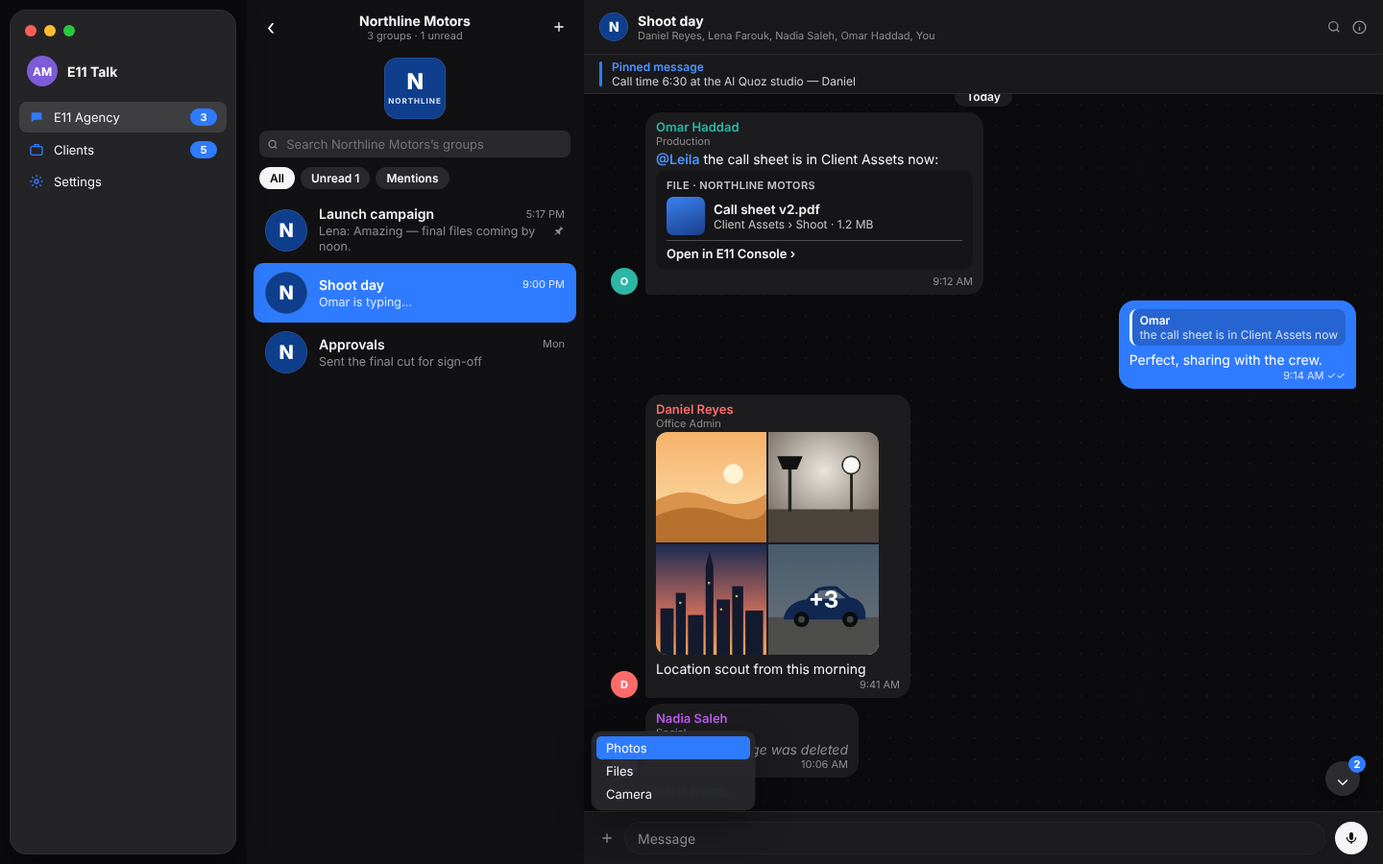
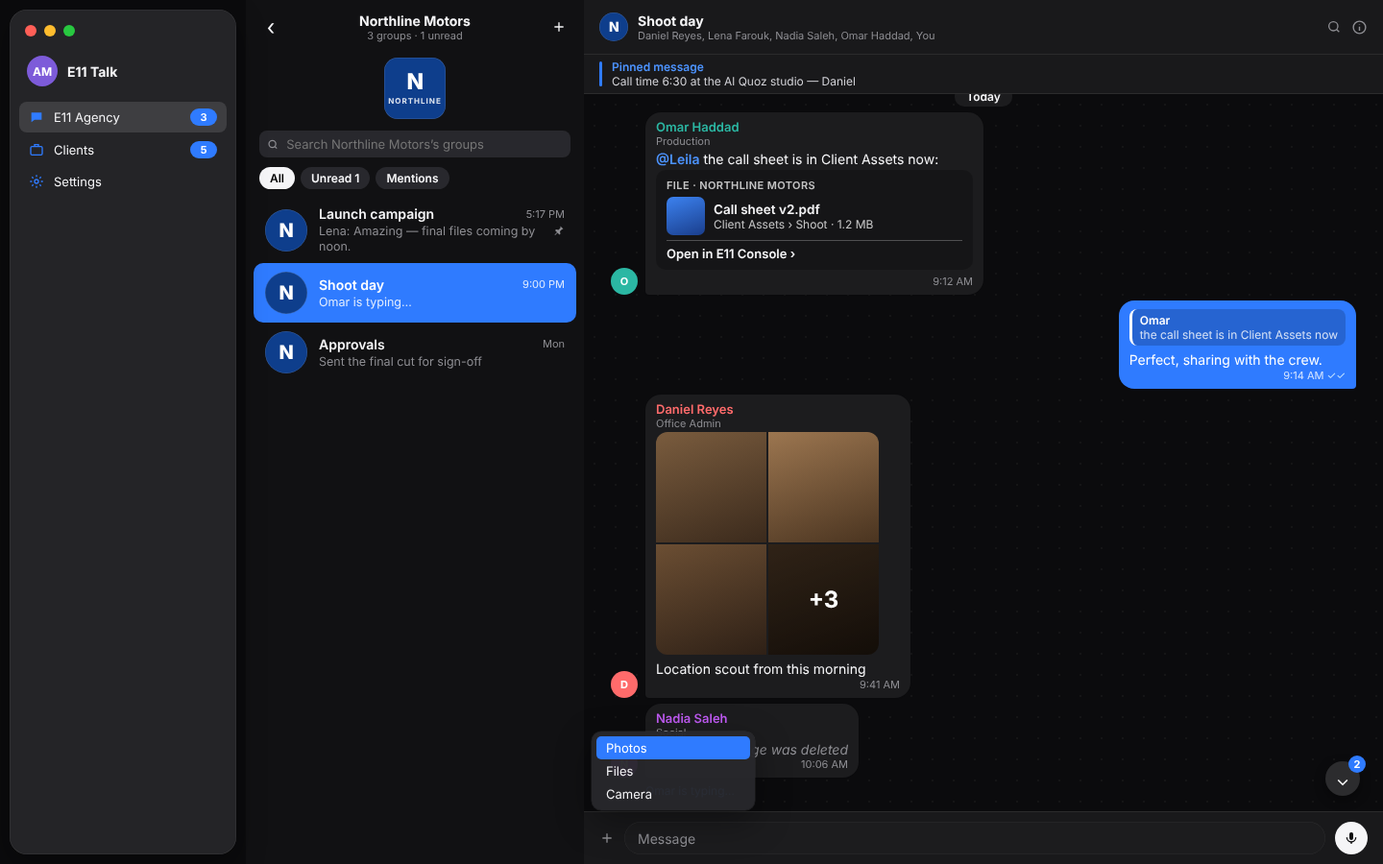
Mac mock-ups: albums back to the plain tones, all four squares the same size (Haris 2026-11-14)
Claude-Session: https://claude.ai/code/session_01BLZbkbofDcnmdddBfSoot6

Changed region(s): [[0.4688, 0.4978, 0.6562, 0.7778]]

diff --git a/design/mac-mockups/talk/Chat.dc.html b/design/mac-mockups/talk/Chat.dc.html
@@ -14,7 +14,7 @@ a{color:#4C93FF}
 </style>
 </helmet>
 <div style="width: 1440px; height: 900px; background: #0B0B0D; font-family: -apple-system, 'SF Pro Text', 'Helvetica Neue', Inter, sans-serif; color: #F5F5F7; position: relative; overflow: hidden">
[1 lines of base64/hex data omitted]
+<div style="position: absolute; left: 10px; top: 10px; bottom: 10px; width: 236px; border-radius: 18px; background: rgba(44,44,48,0.78); box-shadow: inset 0 0 0 0.5px rgba(127,127,127,0.25), 0 10px 30px rgba(0,0,0,0.35); display: flex; flex-direction: column; padding: 14px 10px; box-sizing: border-box; gap: 2px; z-index: 3"><div style="display: flex; gap: 8px; padding: 2px 6px 14px"><span style="width: 12px; height: 12px; border-radius: 6px; background: #FF5F57"></span><span style="width: 12px; height: 12px; border-radius: 6px; background: #FEBC2E"></span><span style="width: 12px; height: 12px; border-radius: 6px; background: #28C840"></span></div><div style="display: flex; align-items: center; gap: 10px; padding: 4px 8px 14px"><span style="width: 32px; height: 32px; border-radius: 16px; background: #7D5BD9; color: #fff; display: inline-flex; align-items: center; justify-content: center; font-size: 12px; font-weight: 700" aria-label="You — Settings">AM</span><span style="font-size: 14px; font-weight: 700; color: #F5F5F7">E11 Talk</span></div><a href="#" style="display: flex; align-items: center; gap: 10px; padding: 7px 10px; border-radius: 8px; font-size: 13px; color: #F5F5F7; text-decoration: none; background: rgba(255,255,255,0.12);"><svg width="16" height="16" viewBox="0 0 24 24" fill="#2F7BFF" aria-hidden="true"><path d="M4 5h16v11H9l-5 4z"/></svg>E11 Agency<span style="margin-left: auto; min-width: 18px; height: 18px; border-radius: 9px; background: #2F7BFF; color: #fff; font-size: 11px; font-weight: 700; display: inline-flex; align-items: center; justify-content: center; padding: 0 5px">3</span></a><a href="#" style="display: flex; align-items: center; gap: 10px; padding: 7px 10px; border-radius: 8px; font-size: 13px; color: #F5F5F7; text-decoration: none; "><svg width="16" height="16" viewBox="0 0 24 24" fill="none" stroke="#2F7BFF" stroke-width="2" aria-hidden="true"><rect x="3" y="7" width="18" height="13" rx="2"/><path d="M9 7V4h6v3"/></svg>Clients<span style="margin-left: auto; min-width: 18px; height: 18px; border-radius: 9px; background: #2F7BFF; color: #fff; font-size: 11px; font-weight: 700; display: inline-flex; align-items: center; justify-content: center; padding: 0 5px">5</span></a><a href="#" style="display: flex; align-items: center; gap: 10px; padding: 7px 10px; border-radius: 8px; font-size: 13px; color: #F5F5F7; text-decoration: none; "><svg width="16" height="16" viewBox="0 0 24 24" fill="none" stroke="#2F7BFF" stroke-width="2" aria-hidden="true"><circle cx="12" cy="12" r="3"/><path d="M12 2v3M12 19v3M2 12h3M19 12h3M5 5l2 2M17 17l2 2M5 19l2-2M17 7l2-2"/></svg>Settings</a></div><div style="position: absolute; left: 256px; top: 0; bottom: 0; width: 352px; border-right: 0.5px solid rgba(255,255,255,0.08); display: flex; flex-direction: column; background: #111113"><div style="height: 56px; display: flex; align-items: center; padding: 0 12px; gap: 8px"><span style="width: 28px; height: 28px; border-radius: 8px; display: inline-flex; align-items: center; justify-content: center; color: #F5F5F7; font-size: 22px" aria-label="Back to Clients">‹</span><div style="flex: 1; min-width: 0; display: flex; flex-direction: column; align-items: center"><span style="font-size: 14px; font-weight: 700">Northline Motors</span><span style="font-size: 11px; color: #8E8E93">3 groups · 1 unread</span></div><span style="width: 28px; height: 28px; border-radius: 8px; display: inline-flex; align-items: center; justify-content: center; color: #F5F5F7" aria-label="New Group"><svg width="16" height="16" viewBox="0 0 24 24" fill="none" stroke="currentColor" stroke-width="2" aria-hidden="true"><path d="M12 5v14M5 12h14"/></svg></span></div><div style="display: flex; justify-content: center; padding: 4px 0 12px"><span style="width: 64px; height: 64px; border-radius: 14px; background: #0E3E8C; flex: none; display: inline-flex; flex-direction: column; align-items: center; justify-content: center; color: #fff; font-family: -apple-system, 'SF Pro Display', Inter, sans-serif; box-shadow: inset 0 0 0 0.5px rgba(255,255,255,0.18)"><span style="font-size: 23px; font-weight: 800; letter-spacing: -0.5px; line-height: 1">N</span><span style="font-size: 8px; font-weight: 700; letter-spacing: 1px; margin-top: 3px; opacity: 0.85">NORTHLINE</span></span></div><div style="padding: 0 14px 8px; display: flex; flex-direction: column; gap: 10px"><label style="display: flex; align-items: center; gap: 6px; height: 28px; border-radius: 8px; background: rgba(118,118,128,0.24); padding: 0 8px; font-size: 13px; color: #8E8E93"><svg width="13" height="13" viewBox="0 0 24 24" fill="none" stroke="currentColor" stroke-width="2.4" aria-hidden="true"><circle cx="11" cy="11" r="7"/><path d="M20 20l-4-4"/></svg><input type="search" placeholder="Search Northline Motors’s groups" aria-label="Search Northline Motors’s groups" style="border: none; background: transparent; color: #F5F5F7; font: inherit; outline: none; width: 100%"></label><div style="display: flex; gap: 6px; font-size: 12px; font-weight: 600"><span style="padding: 4px 11px; border-radius: 14px; background: #F5F5F7; color: #000">All</span><span style="padding: 4px 11px; border-radius: 14px; background: rgba(118,118,128,0.24); color: #F5F5F7">Unread 1</span><span style="padding: 4px 11px; border-radius: 14px; background: rgba(118,118,128,0.24); color: #F5F5F7">Mentions</span></div></div><div style="display: flex; flex-direction: column"><div style="display: flex; gap: 12px; padding: 9px 12px; margin: 0 8px; border-radius: 10px; align-items: center"><span style="width: 44px; height: 44px; border-radius: 22px; background: #0E3E8C; flex: none; display: inline-flex; flex-direction: column; align-items: center; justify-content: center; color: #fff; font-family: -apple-system, 'SF Pro Display', Inter, sans-serif; box-shadow: inset 0 0 0 0.5px rgba(255,255,255,0.18)"><span style="font-size: 20px; font-weight: 800; letter-spacing: -0.5px; line-height: 1">N</span></span><div style="flex: 1; min-width: 0; display: flex; flex-direction: column; gap: 2px"><div style="display: flex; align-items: center; gap: 6px; min-width: 0"><span style="font-size: 14px; font-weight: 600; color: #F5F5F7; white-space: nowrap; overflow: hidden; text-overflow: ellipsis">Launch campaign</span><span style="margin-left: auto; flex: none; font-size: 11px; color: #8E8E93">5:17 PM</span></div><div style="display: flex; align-items: flex-start; gap: 6px"><span style="flex: 1; min-width: 0; font-size: 12.5px; line-height: 16px; color: #8E8E93; display: -webkit-box; -webkit-line-clamp: 2; -webkit-box-orient: vertical; overflow: hidden">Lena: Amazing — final files coming by noon.</span><span style="flex: none; display: inline-flex; gap: 5px; align-items: center; margin-top: 1px"><svg width="12" height="12" viewBox="0 0 24 24" fill="#8E8E93" aria-label="Pinned"><path d="M15 3l6 6-3 1-4 4 1 5-2 2-4-4-5 5-1-1 5-5-4-4 2-2 5 1 4-4z"/></svg></span></div></div></div><div style="display: flex; gap: 12px; padding: 9px 12px; margin: 0 8px; border-radius: 10px; background: #2F7BFF; align-items: center"><span style="width: 44px; height: 44px; border-radius: 22px; background: #0E3E8C; flex: none; display: inline-flex; flex-direction: column; align-items: center; justify-content: center; color: #fff; font-family: -apple-system, 'SF Pro Display', Inter, sans-serif; box-shadow: inset 0 0 0 0.5px rgba(255,255,255,0.18)"><span style="font-size: 20px; font-weight: 800; letter-spacing: -0.5px; line-height: 1">N</span></span><div style="flex: 1; min-width: 0; display: flex; flex-direction: column; gap: 2px"><div style="display: flex; align-items: center; gap: 6px; min-width: 0"><span style="font-size: 14px; font-weight: 600; color: #fff; white-space: nowrap; overflow: hidden; text-overflow: ellipsis">Shoot day</span><span style="margin-left: auto; flex: none; font-size: 11px; color: rgba(255,255,255,0.85)">9:00 PM</span></div><div style="display: flex; align-items: flex-start; gap: 6px"><span style="flex: 1; min-width: 0; font-size: 12.5px; line-height: 16px; color: rgba(255,255,255,0.85); display: -webkit-box; -webkit-line-clamp: 2; -webkit-box-orient: vertical; overflow: hidden">Omar is typing…</span><span style="flex: none; display: inline-flex; gap: 5px; align-items: center; margin-top: 1px"></span></div></div></div><div style="display: flex; gap: 12px; padding: 9px 12px; margin: 0 8px; border-radius: 10px; align-items: center"><span style="width: 44px; height: 44px; border-radius: 22px; background: #0E3E8C; flex: none; display: inline-flex; flex-direction: column; align-items: center; justify-content: center; color: #fff; font-family: -apple-system, 'SF Pro Display', Inter, sans-serif; box-shadow: inset 0 0 0 0.5px rgba(255,255,255,0.18)"><span style="font-size: 20px; font-weight: 800; letter-spacing: -0.5px; line-height: 1">N</span></span><div style="flex: 1; min-width: 0; display: flex; flex-direction: column; gap: 2px"><div style="display: flex; align-items: center; gap: 6px; min-width: 0"><span style="font-size: 14px; font-weight: 600; color: #F5F5F7; white-space: nowrap; overflow: hidden; text-overflow: ellipsis">Approvals</span><span style="margin-left: auto; flex: none; font-size: 11px; color: #8E8E93">Mon</span></div><div style="display: flex; align-items: flex-start; gap: 6px"><span style="flex: 1; min-width: 0; font-size: 12.5px; line-height: 16px; color: #8E8E93; display: -webkit-box; -webkit-line-clamp: 2; -webkit-box-orient: vertical; overflow: hidden">Sent the final cut for sign-off</span><span style="flex: none; display: inline-flex; gap: 5px; align-items: center; margin-top: 1px"></span></div></div></div></div></div><div style="position: absolute; left: 608px; right: 0; top: 0; bottom: 0; display: flex; flex-direction: column; background: #0B0B0D"><div style="height: 56px; display: flex; align-items: center; gap: 10px; padding: 0 16px; border-bottom: 0.5px solid rgba(255,255,255,0.08); background: rgba(28,28,30,0.85)"><span style="width: 30px; height: 30px; border-radius: 15px; background: #0E3E8C; flex: none; display: inline-flex; flex-direction: column; align-items: center; justify-content: center; color: #fff; font-family: -apple-system, 'SF Pro Display', Inter, sans-serif; box-shadow: inset 0 0 0 0.5px rgba(255,255,255,0.18)"><span style="font-size: 14px; font-weight: 800; letter-spacing: -0.5px; line-height: 1">N</span></span><div style="display: flex; flex-direction: column"><span style="font-size: 14px; font-weight: 700">Shoot day</span><span style="font-size: 11px; color: #8E8E93">Daniel Reyes, Lena Farouk, Nadia Saleh, Omar Haddad, You</span></div><span style="margin-left: auto"></span><span aria-label="Search in this chat" style="color: #8E8E93; display: inline-flex"><svg width="16" height="16" viewBox="0 0 24 24" fill="none" stroke="currentColor" stroke-width="2"><circle cx="11" cy="11" r="7"/><path d="M20 20l-4-4"/></svg></span><span aria-label="Group Info" style="color: #8E8E93; display: inline-flex"><svg width="17" height="17" viewBox="0 0 24 24" fill="none" stroke="currentColor" stroke-width="2"><circle cx="12" cy="12" r="9"/><path d="M12 11v6M12 7.5v.5"/></svg></span></div><div style="height: 40px; display: flex; align-items: center; gap: 10px; padding: 0 16px; border-bottom: 0.5px solid rgba(255,255,255,0.08); font-size: 12px; background: rgba(28,28,30,0.85)"><span style="width: 3px; height: 26px; border-radius: 2px; background: #2F7BFF"></span><div style="display: flex; flex-direction: column"><span style="color: #4C93FF; font-weight: 600">Pinned message</span><span style="color: #D1D1D6">Call time 6:30 at the Al Quoz studio — Daniel</span></div></div><div style="flex: 1; padding: 14px 28px; display: flex; flex-direction: column; justify-content: flex-end; gap: 6px; overflow: hidden; background-image: radial-gradient(rgba(255,255,255,0.04) 1px, transparent 1px); background-size: 22px 22px; position: relative"><div style="align-self: center; padding: 3px 12px; border-radius: 10px; background: #1C1C1E; font-size: 12px; font-weight: 600">Today</div><div style="display: flex; gap: 8px; align-items: flex-end"><span style="width: 28px; height: 28px; border-radius: 14px; background: #2BB7A3; flex: none; display: inline-flex; align-items: center; justify-content: center; font-size: 11px; font-weight: 700; color: #fff">O</span><div style="display: flex; flex-direction: column"><div style="width: 330px; padding: 7px 11px; border-radius: 16px 16px 16px 4px; background: #1C1C1E; box-shadow: 0 0.5px 1px rgba(0,0,0,0.08)"><div style="font-size: 13px; font-weight: 600; color: #2BB7A3">Omar Haddad</div><div style="font-size: 11px; color: #8E8E93; margin-bottom: 2px">Production</div><div style="font-size: 14px; line-height: 19px"><span style="color: #4C93FF; font-weight: 600">@Leila</span> the call sheet is in Client Assets now:</div><div style="margin: 2px 0 5px; border-radius: 10px; background: rgba(0,0,0,0.22); padding: 9px 11px; display: flex; flex-direction: column; gap: 5px"><span style="font-size: 11px; font-weight: 600; letter-spacing: 0.4px; color: rgba(255,255,255,0.75)">FILE · NORTHLINE MOTORS</span><div style="display: flex; gap: 9px; align-items: center"><span style="width: 40px; height: 40px; border-radius: 7px; background: linear-gradient(160deg,#3C82F0,#1A3E8C); flex: none"></span><div><div style="font-size: 13.5px; font-weight: 600">Call sheet v2.pdf</div><div style="font-size: 12px; color: rgba(255,255,255,0.75)">Client Assets › Shoot · 1.2 MB</div></div></div><div style="border-top: 0.5px solid rgba(255,255,255,0.25); padding-top: 5px; font-size: 13px; font-weight: 600">Open in E11 Console ›</div></div><div style="font-size: 11px; color: #8E8E93; text-align: right">9:12 AM</div></div></div></div><div style="align-self: flex-end; display: flex; flex-direction: column"><div style="max-width: 460px; padding: 7px 11px; border-radius: 16px 16px 4px 16px; background: #2F7BFF; color: #fff"><div style="margin: 2px 0 5px; border-radius: 8px; background: rgba(0,0,0,0.18); border-left: 3px solid #fff; padding: 4px 8px"><div style="font-size: 12px; font-weight: 600; color: #fff">Omar</div><div style="font-size: 12px; opacity: 0.8">the call sheet is in Client Assets now</div></div><div style="font-size: 14px; line-height: 19px">Perfect, sharing with the crew.</div><div style="font-size: 11px; color: rgba(255,255,255,0.8); text-align: right">9:14 AM <span style="color: #BFE0FF">✓✓</span></div></div></div><div style="display: flex; gap: 8px; align-items: flex-end"><span style="width: 28px; height: 28px; border-radius: 14px; background: #FF6B6B; flex: none; display: inline-flex; align-items: center; justify-content: center; font-size: 11px; font-weight: 700; color: #fff">D</span><div style="display: flex; flex-direction: column"><div style="width: 254px; padding: 7px 11px; border-radius: 16px 16px 16px 4px; background: #1C1C1E; box-shadow: 0 0.5px 1px rgba(0,0,0,0.08)"><div style="font-size: 13px; font-weight: 600; color: #FF6B6B">Daniel Reyes</div><div style="font-size: 11px; color: #8E8E93; margin-bottom: 2px">Office Admin</div><div style="margin: 0 0 5px; width: 232px; height: 232px; display: grid; grid-template-columns: 1fr 1fr; grid-template-rows: 1fr 1fr; gap: 2px; border-radius: 12px; overflow: hidden"><span style="background: linear-gradient(160deg,#7A5C3E,#3B2A1C); position: relative"></span><span style="background: linear-gradient(160deg,#9C7650,#4A3420); position: relative"></span><span style="background: linear-gradient(160deg,#6B4E33,#2E2016); position: relative"></span><span style="background: linear-gradient(160deg,#4A3624,#1E150D); position: relative"><span style="position: absolute; inset: 0; background: rgba(0,0,0,0.35); display: flex; align-items: center; justify-content: center; font-size: 24px; font-weight: 700; color: #fff">+3</span></span></div><div style="font-size: 14px; line-height: 19px">Location scout from this morning</div><div style="font-size: 11px; color: #8E8E93; text-align: right">9:41 AM</div></div></div></div><div style="display: flex; gap: 8px; align-items: flex-end"><span style="width: 28px; height: 28px; border-radius: 14px; background: #BF5AF2; flex: none; display: inline-flex; align-items: center; justify-content: center; font-size: 11px; font-weight: 700; color: #fff">N</span><div style="display: flex; flex-direction: column"><div style="max-width: 460px; padding: 7px 11px; border-radius: 16px 16px 16px 4px; background: #1C1C1E; box-shadow: 0 0.5px 1px rgba(0,0,0,0.08)"><div style="font-size: 13px; font-weight: 600; color: #BF5AF2">Nadia Saleh</div><div style="font-size: 11px; color: #8E8E93; margin-bottom: 2px">Social</div><div style="font-size: 14px; font-style: italic; color: #8E8E93">⊘ This message was deleted</div><div style="font-size: 11px; color: #8E8E93; text-align: right">10:06 AM</div></div></div></div><div style="font-size: 12px; color: #4C93FF; padding-left: 36px">Omar is typing…</div><span aria-label="Scroll to the latest" style="position: absolute; right: 24px; bottom: 16px; width: 36px; height: 36px; border-radius: 18px; background: #2C2C2E; box-shadow: 0 4px 12px rgba(0,0,0,0.4); display: inline-flex; align-items: center; justify-content: center; color: #fff; font-size: 18px">⌄<span style="position: absolute; top: -6px; right: -6px; min-width: 18px; height: 18px; border-radius: 9px; background: #2F7BFF; font-size: 11px; font-weight: 700; display: inline-flex; align-items: center; justify-content: center">2</span></span></div><div style="display: flex; align-items: center; gap: 10px; padding: 10px 16px; border-top: 0.5px solid rgba(255,255,255,0.08); background: rgba(28,28,30,0.85)"><span aria-label="Attach" style="color: #8E8E93; display: inline-flex"><svg width="16" height="16" viewBox="0 0 24 24" fill="none" stroke="currentColor" stroke-width="2" aria-hidden="true"><path d="M12 5v14M5 12h14"/></svg></span><label style="flex: 1; display: flex; align-items: center; min-height: 34px; border-radius: 17px; background: #1C1C1E; box-shadow: inset 0 0 0 0.5px rgba(255,255,255,0.08); padding: 0 14px"><span style="font-size: 14px; color: #8E8E93">Message</span></label><span aria-label="Record a voice message" style="width: 34px; height: 34px; border-radius: 17px; background: #F5F5F7; color: #0B0B0D; display: inline-flex; align-items: center; justify-content: center"><svg width="16" height="16" viewBox="0 0 24 24" fill="currentColor"><rect x="9" y="3" width="6" height="12" rx="3"/><path d="M5 11a7 7 0 0014 0" fill="none" stroke="currentColor" stroke-width="2"/><path d="M12 18v3" stroke="currentColor" stroke-width="2"/></svg></span></div></div><div role="menu" style="position: absolute; left: 616px; top: 762px; width: 170px; padding: 5px 0; border-radius: 10px; background: rgba(40,40,44,0.96); box-shadow: 0 0 0 0.5px rgba(255,255,255,0.1), 0 12px 36px rgba(0,0,0,0.35); z-index: 9"><div style="display: flex; align-items: center; padding: 4px 10px; margin: 0 5px; border-radius: 5px; font-size: 13px; background: #2F7BFF; color: #fff;">Photos</div><div style="display: flex; align-items: center; padding: 4px 10px; margin: 0 5px; border-radius: 5px; font-size: 13px; color: #F5F5F7;">Files</div><div style="display: flex; align-items: center; padding: 4px 10px; margin: 0 5px; border-radius: 5px; font-size: 13px; color: #F5F5F7;">Camera</div></div>
 </div>
 </x-dc>
 <script type="text/x-dc" data-dc-script data-props='{"$preview":{"width":1440,"height":900}}'>

diff --git a/design/mac-mockups/talk/ChatLight.dc.html b/design/mac-mockups/talk/ChatLight.dc.html
@@ -39,7 +39,7 @@ a{color:#4C93FF}a:hover{color:#7AB0FF}
 <div style="align-self: center; padding: 3px 12px; border-radius: 10px; background: #FFFFFF; font-size: 12px; font-weight: 600">Today</div>
 <div style="display: flex; gap: 8px; align-items: flex-end"><span style="width: 28px; height: 28px; border-radius: 14px; background: #0E3E8C; flex: none"></span><div style="max-width: 420px; padding: 8px 12px; border-radius: 16px 16px 16px 4px; background: #FFFFFF"><div style="font-size: 13px; font-weight: 600; color: #C46A00">Rania Malik</div><div style="font-size: 11px; color: #C46A00; margin-bottom: 2px">Client</div><div style="font-size: 14px">Good morning! Can we see the hero banner today?</div><div style="font-size: 11px; color: #8E8E93; text-align: right">4:17 PM</div></div></div>
 <div style="align-self: flex-end; max-width: 420px; padding: 8px 12px; border-radius: 16px 16px 4px 16px; background: #2F7BFF; color: #fff"><div style="font-size: 14px">Morning Rania — Daniel is finishing round 2 now.</div><div style="font-size: 11px; color: rgba(255,255,255,0.8); text-align: right">4:21 PM ✓✓</div></div>
[1 lines of base64/hex data omitted]
+<div style="display: flex; gap: 8px; align-items: flex-end"><span style="width: 28px; height: 28px; border-radius: 14px; background: #3A6FD8; flex: none"></span><div style="width: 280px; padding: 8px; border-radius: 16px 16px 16px 4px; background: #FFFFFF; display: flex; flex-direction: column; gap: 6px"><div style="padding: 0 4px"><div style="font-size: 13px; font-weight: 600; color: #FF6B6B">Daniel Reyes</div><div style="font-size: 11px; color: #8E8E93">Office Admin</div></div><div style="width: 264px; height: 264px; display: grid; grid-template-columns: 1fr 1fr; grid-template-rows: 1fr 1fr; gap: 2px; border-radius: 12px; overflow: hidden"><span style="background: linear-gradient(160deg, #2F6FE0, #1A3E8C); position: relative"></span><span style="background: linear-gradient(160deg, #3C82F0, #24509E); position: relative"></span><span style="background: linear-gradient(160deg, #2A63CC, #173979); position: relative"></span><span style="background: linear-gradient(160deg, #1D3F86, #0F2350); position: relative"><span style="position: absolute; inset: 0; background: rgba(0,0,0,0.35); display: flex; align-items: center; justify-content: center; font-size: 24px; font-weight: 700; color: #fff">+1</span></span></div><div style="font-size: 14px; padding: 0 4px">Round 2 is up: warmer light, bigger product shot ☕</div><div style="font-size: 11px; color: #8E8E93; text-align: right; padding: 0 4px">5:02 PM</div></div></div>
 <div style="display: flex; gap: 8px; align-items: flex-end"><span style="width: 28px; height: 28px; border-radius: 14px; background: #0E3E8C; flex: none"></span><div style="display: flex; flex-direction: column; gap: 2px"><div style="max-width: 420px; padding: 8px 12px; border-radius: 16px 16px 16px 4px; background: #FFFFFF"><div style="font-size: 13px; font-weight: 600; color: #C46A00">Rania Malik</div><div style="font-size: 14px">This is it. Approved from our side 🙌</div><div style="font-size: 11px; color: #8E8E93; text-align: right">5:13 PM</div></div><span style="align-self: flex-start; margin-left: 8px; padding: 2px 8px; border-radius: 12px; background: #FFFFFF; box-shadow: 0 0 0 2px #F1F1F5, 0 1px 3px rgba(0,0,0,0.15); font-size: 12px">❤👏 2</span></div></div>
 <div style="align-self: flex-end; width: 300px; padding: 8px; border-radius: 16px 16px 4px 16px; background: #2F7BFF; color: #fff; display: flex; flex-direction: column; gap: 6px"><div style="border-radius: 12px; background: rgba(0,0,0,0.22); padding: 10px 12px; display: flex; flex-direction: column; gap: 6px"><span style="font-size: 11px; font-weight: 600; letter-spacing: 0.4px; color: rgba(255,255,255,0.75)">TASK · NORTHLINE MOTORS</span><span style="font-size: 14px; font-weight: 600">Northline | Winter Drive Campaign – Key Visual</span><div style="display: flex; align-items: center; gap: 8px"><span style="padding: 1px 6px; border-radius: 5px; background: #FFD60A; color: #000; font-size: 11px; font-weight: 700">Review</span><span style="font-size: 12px; color: rgba(255,255,255,0.75)">Due Sun, 8 Nov</span></div><div style="border-top: 0.5px solid rgba(255,255,255,0.25); padding-top: 6px; font-size: 13px; font-weight: 600">Open in E11 Console ›</div></div><div style="font-size: 11px; color: rgba(255,255,255,0.8); text-align: right">5:15 PM ✓✓</div></div>
 <div style="display: flex; gap: 8px; align-items: flex-end"><span style="width: 28px; height: 28px; border-radius: 14px; background: #2BB7A3; flex: none"></span><div style="width: 300px; padding: 8px 12px; border-radius: 16px 16px 16px 4px; background: #FFFFFF; display: flex; flex-direction: column; gap: 4px"><div style="font-size: 13px; font-weight: 600; color: #D9A066">Lena Farouk</div><div style="display: flex; align-items: center; gap: 10px"><svg width="22" height="22" viewBox="0 0 24 24" fill="#1D1D1F" aria-hidden="true"><path d="M7 4v16l13-8z"/></svg><span style="flex: 1; height: 22px; background-image: repeating-linear-gradient(90deg, #8E8E93 0 2px, transparent 2px 5px); -webkit-mask-image: linear-gradient(180deg, transparent 20%, #000 20%, #000 80%, transparent 80%); mask-image: linear-gradient(180deg, transparent 20%, #000 20%, #000 80%, transparent 80%)"></span><span style="font-size: 11px; color: #8E8E93">0:42</span></div><div style="font-size: 11px; color: #8E8E93; text-align: right">5:17 PM</div></div></div>

diff --git a/design/mac-mockups/talk/GroupInfo.dc.html b/design/mac-mockups/talk/GroupInfo.dc.html
@@ -39,7 +39,7 @@ a{color:#4C93FF}a:hover{color:#7AB0FF}
 <div style="align-self: center; padding: 3px 12px; border-radius: 10px; background: #1C1C1E; font-size: 12px; font-weight: 600">Today</div>
 <div style="display: flex; gap: 8px; align-items: flex-end"><span style="width: 28px; height: 28px; border-radius: 14px; background: #0E3E8C; flex: none"></span><div style="max-width: 420px; padding: 8px 12px; border-radius: 16px 16px 16px 4px; background: #1C1C1E"><div style="font-size: 13px; font-weight: 600; color: #FF9F0A">Rania Malik</div><div style="font-size: 11px; color: #FF9F0A; margin-bottom: 2px">Client</div><div style="font-size: 14px">Good morning! Can we see the hero banner today?</div><div style="font-size: 11px; color: #8E8E93; text-align: right">4:17 PM</div></div></div>
 <div style="align-self: flex-end; max-width: 420px; padding: 8px 12px; border-radius: 16px 16px 4px 16px; background: #2F7BFF"><div style="font-size: 14px">Morning Rania — Daniel is finishing round 2 now.</div><div style="font-size: 11px; color: rgba(255,255,255,0.8); text-align: right">4:21 PM ✓✓</div></div>
[1 lines of base64/hex data omitted]
+<div style="display: flex; gap: 8px; align-items: flex-end"><span style="width: 28px; height: 28px; border-radius: 14px; background: #3A6FD8; flex: none"></span><div style="width: 280px; padding: 8px; border-radius: 16px 16px 16px 4px; background: #1C1C1E; display: flex; flex-direction: column; gap: 6px"><div style="padding: 0 4px"><div style="font-size: 13px; font-weight: 600; color: #FF6B6B">Daniel Reyes</div><div style="font-size: 11px; color: #8E8E93">Office Admin</div></div><div style="width: 264px; height: 264px; display: grid; grid-template-columns: 1fr 1fr; grid-template-rows: 1fr 1fr; gap: 2px; border-radius: 12px; overflow: hidden"><span style="background: linear-gradient(160deg, #2F6FE0, #1A3E8C); position: relative"></span><span style="background: linear-gradient(160deg, #3C82F0, #24509E); position: relative"></span><span style="background: linear-gradient(160deg, #2A63CC, #173979); position: relative"></span><span style="background: linear-gradient(160deg, #1D3F86, #0F2350); position: relative"><span style="position: absolute; inset: 0; background: rgba(0,0,0,0.35); display: flex; align-items: center; justify-content: center; font-size: 24px; font-weight: 700; color: #fff">+1</span></span></div><div style="font-size: 14px; padding: 0 4px">Round 2 is up: warmer light, bigger product shot ☕</div><div style="font-size: 11px; color: #8E8E93; text-align: right; padding: 0 4px">5:02 PM</div></div></div>
 <div style="display: flex; gap: 8px; align-items: flex-end"><span style="width: 28px; height: 28px; border-radius: 14px; background: #0E3E8C; flex: none"></span><div style="display: flex; flex-direction: column; gap: 2px"><div style="max-width: 420px; padding: 8px 12px; border-radius: 16px 16px 16px 4px; background: #1C1C1E"><div style="font-size: 13px; font-weight: 600; color: #FF9F0A">Rania Malik</div><div style="font-size: 14px">This is it. Approved from our side 🙌</div><div style="font-size: 11px; color: #8E8E93; text-align: right">5:13 PM</div></div><span style="align-self: flex-start; margin-left: 8px; padding: 2px 8px; border-radius: 12px; background: #2C2C2E; box-shadow: 0 0 0 2px #0B0B0D; font-size: 12px">❤👏 2</span></div></div>
 <div style="align-self: flex-end; width: 300px; padding: 8px; border-radius: 16px 16px 4px 16px; background: #2F7BFF; display: flex; flex-direction: column; gap: 6px"><div style="border-radius: 12px; background: rgba(0,0,0,0.22); padding: 10px 12px; display: flex; flex-direction: column; gap: 6px"><span style="font-size: 11px; font-weight: 600; letter-spacing: 0.4px; color: rgba(255,255,255,0.75)">TASK · NORTHLINE MOTORS</span><span style="font-size: 14px; font-weight: 600">Northline | Winter Drive Campaign – Key Visual</span><div style="display: flex; align-items: center; gap: 8px"><span style="padding: 1px 6px; border-radius: 5px; background: #FFD60A; color: #000; font-size: 11px; font-weight: 700">Review</span><span style="font-size: 12px; color: rgba(255,255,255,0.75)">Due Sun, 8 Nov</span></div><div style="border-top: 0.5px solid rgba(255,255,255,0.25); padding-top: 6px; font-size: 13px; font-weight: 600">Open in E11 Console ›</div></div><div style="font-size: 11px; color: rgba(255,255,255,0.8); text-align: right">5:15 PM ✓✓</div></div>
 <div style="display: flex; gap: 8px; align-items: flex-end"><span style="width: 28px; height: 28px; border-radius: 14px; background: #2BB7A3; flex: none"></span><div style="width: 300px; padding: 8px 12px; border-radius: 16px 16px 16px 4px; background: #1C1C1E; display: flex; flex-direction: column; gap: 4px"><div style="font-size: 13px; font-weight: 600; color: #D9A066">Lena Farouk</div><div style="display: flex; align-items: center; gap: 10px"><svg width="22" height="22" viewBox="0 0 24 24" fill="#fff" aria-hidden="true"><path d="M7 4v16l13-8z"/></svg><span style="flex: 1; height: 22px; background-image: repeating-linear-gradient(90deg, #8E8E93 0 2px, transparent 2px 5px); -webkit-mask-image: linear-gradient(180deg, transparent 20%, #000 20%, #000 80%, transparent 80%); mask-image: linear-gradient(180deg, transparent 20%, #000 20%, #000 80%, transparent 80%)"></span><span style="font-size: 11px; color: #8E8E93">0:42</span></div><div style="font-size: 11px; color: #8E8E93; text-align: right">5:17 PM</div></div></div>

diff --git a/design/mac-mockups/talk/Main.dc.html b/design/mac-mockups/talk/Main.dc.html
@@ -39,7 +39,7 @@ a{color:#4C93FF}a:hover{color:#7AB0FF}
 <div style="align-self: center; padding: 3px 12px; border-radius: 10px; background: #1C1C1E; font-size: 12px; font-weight: 600">Today</div>
 <div style="display: flex; gap: 8px; align-items: flex-end"><span style="width: 28px; height: 28px; border-radius: 14px; background: #0E3E8C; flex: none"></span><div style="max-width: 420px; padding: 8px 12px; border-radius: 16px 16px 16px 4px; background: #1C1C1E"><div style="font-size: 13px; font-weight: 600; color: #FF9F0A">Rania Malik</div><div style="font-size: 11px; color: #FF9F0A; margin-bottom: 2px">Client</div><div style="font-size: 14px">Good morning! Can we see the hero banner today?</div><div style="font-size: 11px; color: #8E8E93; text-align: right">4:17 PM</div></div></div>
 <div style="align-self: flex-end; max-width: 420px; padding: 8px 12px; border-radius: 16px 16px 4px 16px; background: #2F7BFF"><div style="font-size: 14px">Morning Rania — Daniel is finishing round 2 now.</div><div style="font-size: 11px; color: rgba(255,255,255,0.8); text-align: right">4:21 PM ✓✓</div></div>
[1 lines of base64/hex data omitted]
+<div style="display: flex; gap: 8px; align-items: flex-end"><span style="width: 28px; height: 28px; border-radius: 14px; background: #3A6FD8; flex: none"></span><div style="width: 280px; padding: 8px; border-radius: 16px 16px 16px 4px; background: #1C1C1E; display: flex; flex-direction: column; gap: 6px"><div style="padding: 0 4px"><div style="font-size: 13px; font-weight: 600; color: #FF6B6B">Daniel Reyes</div><div style="font-size: 11px; color: #8E8E93">Office Admin</div></div><div style="width: 264px; height: 264px; display: grid; grid-template-columns: 1fr 1fr; grid-template-rows: 1fr 1fr; gap: 2px; border-radius: 12px; overflow: hidden"><span style="background: linear-gradient(160deg, #2F6FE0, #1A3E8C); position: relative"></span><span style="background: linear-gradient(160deg, #3C82F0, #24509E); position: relative"></span><span style="background: linear-gradient(160deg, #2A63CC, #173979); position: relative"></span><span style="background: linear-gradient(160deg, #1D3F86, #0F2350); position: relative"><span style="position: absolute; inset: 0; background: rgba(0,0,0,0.35); display: flex; align-items: center; justify-content: center; font-size: 24px; font-weight: 700; color: #fff">+1</span></span></div><div style="font-size: 14px; padding: 0 4px">Round 2 is up: warmer light, bigger product shot ☕</div><div style="font-size: 11px; color: #8E8E93; text-align: right; padding: 0 4px">5:02 PM</div></div></div>
 <div style="display: flex; gap: 8px; align-items: flex-end"><span style="width: 28px; height: 28px; border-radius: 14px; background: #0E3E8C; flex: none"></span><div style="display: flex; flex-direction: column; gap: 2px"><div style="max-width: 420px; padding: 8px 12px; border-radius: 16px 16px 16px 4px; background: #1C1C1E"><div style="font-size: 13px; font-weight: 600; color: #FF9F0A">Rania Malik</div><div style="font-size: 14px">This is it. Approved from our side 🙌</div><div style="font-size: 11px; color: #8E8E93; text-align: right">5:13 PM</div></div><span style="align-self: flex-start; margin-left: 8px; padding: 2px 8px; border-radius: 12px; background: #2C2C2E; box-shadow: 0 0 0 2px #0B0B0D; font-size: 12px">❤👏 2</span></div></div>
 <div style="align-self: flex-end; width: 300px; padding: 8px; border-radius: 16px 16px 4px 16px; background: #2F7BFF; display: flex; flex-direction: column; gap: 6px"><div style="border-radius: 12px; background: rgba(0,0,0,0.22); padding: 10px 12px; display: flex; flex-direction: column; gap: 6px"><span style="font-size: 11px; font-weight: 600; letter-spacing: 0.4px; color: rgba(255,255,255,0.75)">TASK · NORTHLINE MOTORS</span><span style="font-size: 14px; font-weight: 600">Northline | Winter Drive Campaign – Key Visual</span><div style="display: flex; align-items: center; gap: 8px"><span style="padding: 1px 6px; border-radius: 5px; background: #FFD60A; color: #000; font-size: 11px; font-weight: 700">Review</span><span style="font-size: 12px; color: rgba(255,255,255,0.75)">Due Sun, 8 Nov</span></div><div style="border-top: 0.5px solid rgba(255,255,255,0.25); padding-top: 6px; font-size: 13px; font-weight: 600">Open in E11 Console ›</div></div><div style="font-size: 11px; color: rgba(255,255,255,0.8); text-align: right">5:15 PM ✓✓</div></div>
 <div style="display: flex; gap: 8px; align-items: flex-end"><span style="width: 28px; height: 28px; border-radius: 14px; background: #2BB7A3; flex: none"></span><div style="width: 300px; padding: 8px 12px; border-radius: 16px 16px 16px 4px; background: #1C1C1E; display: flex; flex-direction: column; gap: 4px"><div style="font-size: 13px; font-weight: 600; color: #D9A066">Lena Farouk</div><div style="display: flex; align-items: center; gap: 10px"><svg width="22" height="22" viewBox="0 0 24 24" fill="#fff" aria-hidden="true"><path d="M7 4v16l13-8z"/></svg><span style="flex: 1; height: 22px; background-image: repeating-linear-gradient(90deg, #8E8E93 0 2px, transparent 2px 5px); -webkit-mask-image: linear-gradient(180deg, transparent 20%, #000 20%, #000 80%, transparent 80%); mask-image: linear-gradient(180deg, transparent 20%, #000 20%, #000 80%, transparent 80%)"></span><span style="font-size: 11px; color: #8E8E93">0:42</span></div><div style="font-size: 11px; color: #8E8E93; text-align: right">5:17 PM</div></div></div>
